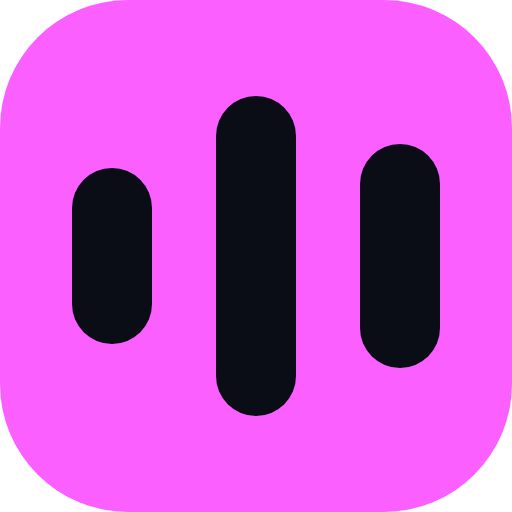
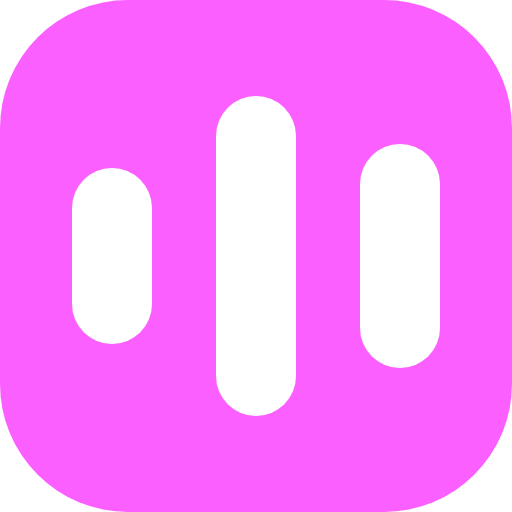
style(dashboard): белый текст на акцентных заливках
По решению владельца текст и иконки на розовых плашках, кнопках и кружке
плеера снова белые; столбики на иконке сайта — тоже. Контраст при этом 2.6:1,
то есть ниже нормы: вариант с тёмным текстом (7.6:1) был показан и отклонён.

Чтобы это не «починили» обратно, в системе интерфейса записано, что так
задумано, и добавлено практическое следствие: на акцентных заливках не
размещать мелкий длинный текст — только короткие ярлыки и цифры крупным
кеглем, где низкий контраст не мешает. Подписи на лид-плитке подняты до почти
непрозрачного белого по той же причине.

Притемнённый --accent-ink остаётся: он про текст на СВЕТЛОМ фоне, где сам
розовый дал бы те же 2.6:1 и просто пропал бы.

Claude-Session: https://claude.ai/code/session_01JPZLoeQtm3E77oQbzgkfg4

Changed region(s): [[0.4062, 0.1875, 0.5938, 0.8125], [0.6875, 0.2812, 0.875, 0.7188], [0.125, 0.3125, 0.3125, 0.6875]]

diff --git a/dashboard/src/styles.css b/dashboard/src/styles.css
@@ -41,13 +41,14 @@
   --nav-edge: rgba(255, 255, 255, 0.09);
 
   /* Цвет со смыслом.
-     Акцент светлый, поэтому у него три роли, а не одна: заливка, текст на
-     заливке и акцентный текст на светлом фоне. Белый на #fc5fff даёт 2.6:1 и
-     нечитаем, сам #fc5fff как текст на белом — тоже 2.6:1. Значения ниже
-     посчитаны, а не подобраны на глаз. */
+     На акцентной заливке текст белый — так решил владелец, и это решение, а
+     не недосмотр: контраст выходит 2.6:1, поэтому на заливках не должно быть
+     мелких длинных подписей, только короткие ярлыки и цифры крупным кеглем.
+     Акцентный текст на СВЕТЛОМ — отдельный, притемнённый токен: сам #fc5fff
+     на белом дал бы те же 2.6:1 и пропал бы. */
   --accent: #fc5fff;        /* заливки: кнопки, знак, лид-плитка, кружок play */
   --accent-hot: #f43df8;    /* та же заливка под курсором */
-  --accent-on: #0b0d16;     /* текст НА акцентной заливке — 7.6:1 */
+  --accent-on: #ffffff;     /* текст и иконки НА акцентной заливке */
   --accent-ink: #a81bad;    /* акцентный текст на светлом — 6.1:1 */
   --accent-tint: rgba(252, 95, 255, 0.14);
   --red: #e0271c;           /* белый текст на нём — 4.7:1 */
@@ -767,10 +768,10 @@ textarea.prompt-editor {
   box-shadow: var(--sh-1);
 }
 .stat.lead .label {
-  color: rgba(11, 13, 22, 0.62);
+  color: rgba(255, 255, 255, 0.92);
 }
 .stat.lead .v .of {
-  color: rgba(11, 13, 22, 0.5);
+  color: rgba(255, 255, 255, 0.8);
 }
 
 /* --- Полоса оценки ------------------------------------------------------ */
@@ -1488,7 +1489,7 @@ tbody tr:hover {
 }
 /* На акцентной плашке своя палитра: зелёное на фуксии нечитаемо. */
 .stat.lead .delta {
-  color: rgba(11, 13, 22, 0.7);
+  color: rgba(255, 255, 255, 0.95);
 }
 
 .num-col {

diff --git a/.interface-design/system.md b/.interface-design/system.md
@@ -69,24 +69,31 @@
 |---|---|---|
 | `--accent` | `#fc5fff` | бренд и **действие** — только как заливка и на тёмном |
 | `--accent-hot` | `#f43df8` | та же заливка под курсором |
-| `--accent-on` | `#0b0d16` | текст и иконки **на** акцентной заливке |
+| `--accent-on` | `#ffffff` | текст и иконки **на** акцентной заливке |
 | `--accent-ink` | `#a81bad` | акцентный **текст на светлом** фоне |
 | `--red` | `#e0271c` | **идёт запись**, ошибка, удаление |
 | `--amber` | `#f08a00` | в очереди, обрабатывается |
 | `--green` | `#00a874` | готово, продажа, «сработало» |
 
-**У акцента три токена, а не один, и это вынужденно.** `#fc5fff` — светлый:
-белый текст на нём даёт 2.6:1, и сам он как текст на белом — тоже 2.6:1.
-Оба сочетания нечитаемы. Поэтому:
+**У акцента три токена, а не один.** `#fc5fff` — светлый, и одним значением
+все три случая не покрыть:
 
-- заливка — `--accent`, текст на ней — `--accent-on` (тёмный, 7.6:1);
-- акцентный текст на светлой карточке — `--accent-ink` (6.1:1);
+- **заливка** — `--accent`, текст на ней — `--accent-on`, **белый**;
+- **акцентный текст на светлой карточке** — `--accent-ink` (6.1:1). Сам
+  `#fc5fff` на белом дал бы 2.6:1 и пропал бы, поэтому здесь притемнённый
+  оттенок того же цвета, а не акцент;
 - на тёмном меню и деке `--accent` работает как есть (6.4:1) — там он и
   раскрывается.
 
-**Любую замену акцента проверять расчётом контраста, а не глазом.** Значения
-выше посчитаны; если менять цвет — пересчитать все три роли и красный тоже
-(белый на `#ff3b30` давал 3.5:1, поэтому красный затемнён до `#e0271c`).
+**Белый на акценте — решение владельца, а не недосмотр.** Контраст выходит
+2.6:1, то есть ниже нормы; вариант с тёмным текстом (7.6:1) был показан и
+отклонён. Не «чинить» обратно. Практическое следствие, которое надо
+соблюдать: на акцентных заливках не размещать мелкий длинный текст — только
+короткие ярлыки и цифры крупным кеглем, где низкий контраст не мешает.
+
+**Замену акцента проверять расчётом контраста, а не глазом.** Значения выше
+посчитаны формулой WCAG; при смене цвета пересчитать все три роли и красный
+тоже (белый на `#ff3b30` давал 3.5:1, поэтому красный затемнён до `#e0271c`).
 
 К цветам есть `-tint` (~10–14% на подложку). Магента и красный никогда не
 стоят рядом как заливки. Холст остаётся нейтральным примерно на 85% — цвет
@@ -342,8 +349,8 @@
 - Смешивать стратегии глубины: карточка с тенью **или** с обводкой, не обе.
 - Пятый цвет; фуксию и красный рядом как две заливки.
 - Цветные тени и свечение под акцентными заливками — только нейтральные.
-- Белый текст на акценте и акцентный текст на белом: и то и другое нечитаемо,
-  для этого есть `--accent-on` и `--accent-ink`.
+- Мелкий длинный текст на акцентной заливке — контраст там 2.6:1.
+- Акцентом `--accent` набирать текст на светлом фоне: для этого `--accent-ink`.
 - Вторую гарнитуру «для заголовков» или «для кода».
 - Вторую акцентную заливку-блок на одном экране (фокус ровно один).
 - Тёплые, бежевые и серо-коричневые поверхности — направление холодное.
